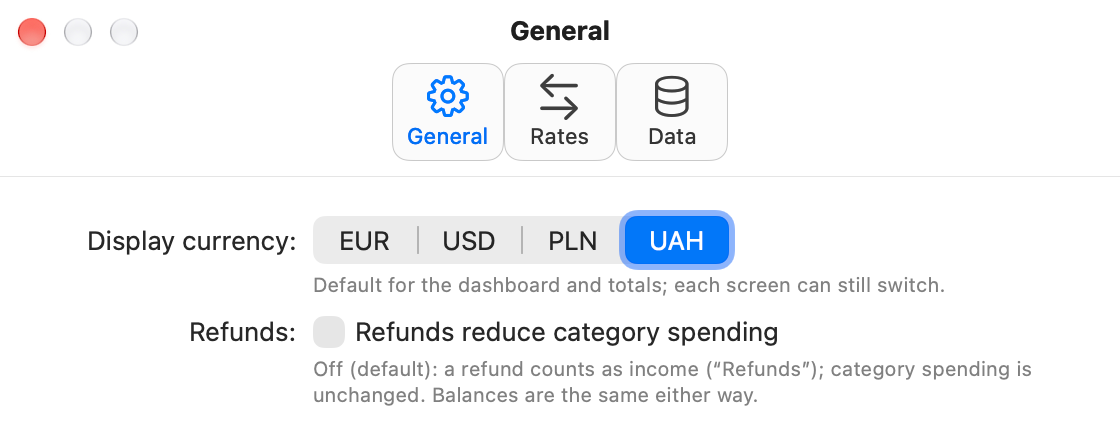
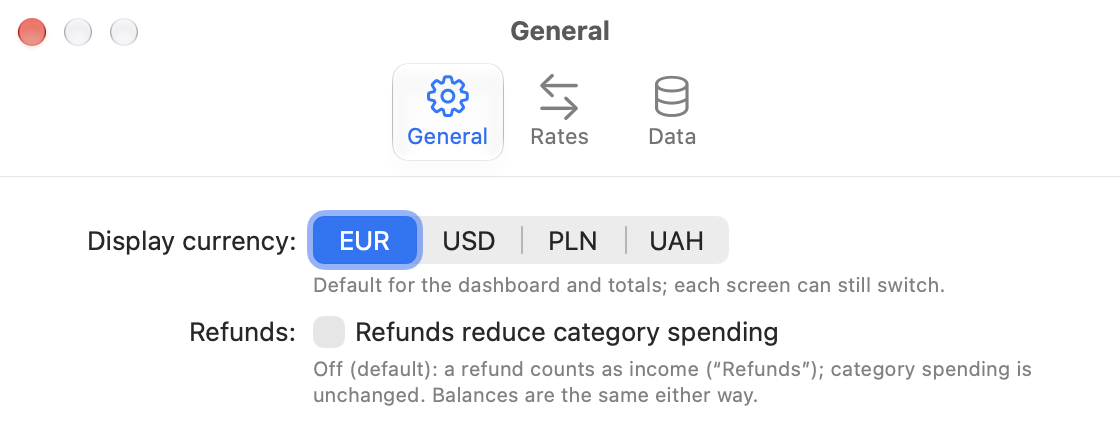
Capture README screenshots with ScreenCaptureKit and retake them
- WindowSnapshot captures the app's own windows via SCShareableContent.currentProcess and
  SCScreenshotManager (no Screen Recording permission needed): real sidebar glass, toolbar
  and traffic lights; the cacheDisplay paint stays as a fallback
- DEBUG -AbacusDisplayCurrency <code> and -AbacusSnapshotFullPage YES (window grows past the
  screen to show the whole page, e.g. all six dashboard widgets)
- Settings window is made key when open, so its chrome looks active
- All README screenshots retaken on sample data with EUR; hero is the full dashboard
- docs/status/R2.md, one line in STATUS "How to check the UI safely"

Verified: swift test (AbacusKit) 695 tests passed; Debug app build succeeded; every PNG checked by eye

diff --git a/App/macOS/Shell/WindowSnapshot.swift b/App/macOS/Shell/WindowSnapshot.swift
@@ -1,21 +1,108 @@
 #if DEBUG
+import AbacusDomain
+import AbacusFeatures
 import AppKit
+import ScreenCaptureKit
 
 /// Debug builds only: writes every visible window of the app to PNG files and quits, for UI
-/// reviews without screen-recording access. Launch with
+/// reviews and README screenshots. Launch with
 /// `-AbacusSnapshotDir <folder> -AbacusSnapshotName <prefix>` (plus `-AbacusDark YES` for dark
-/// mode, `-AbacusSnapshotDelay <seconds>`).
+/// mode, `-AbacusSnapshotDelay <seconds>`, `-AbacusDisplayCurrency EUR` to switch the display
+/// currency first, `-AbacusSnapshotFullPage YES` to grow the main window until its page scroll
+/// view shows its whole document, e.g. every dashboard widget).
+///
+/// Windows are captured with ScreenCaptureKit (`SCShareableContent.currentProcess`: an app's own
+/// windows need no Screen Recording permission), so sidebar glass, toolbar and traffic lights
+/// look exactly as on screen. If that fails, the older `cacheDisplay` paint below is used.
 @MainActor
 enum WindowSnapshot {
-  static func runIfRequested() async {
+  static func runIfRequested(session: AppSession) async {
     let defaults = UserDefaults.standard
     guard let folder = defaults.string(forKey: "AbacusSnapshotDir") else { return }
     let name = defaults.string(forKey: "AbacusSnapshotName") ?? "window"
-    NSApp.activate()
+    if let code = defaults.string(forKey: "AbacusDisplayCurrency"), let currency = Currency(rawValue: code) {
+      // As if the app had launched with this default: the rates page follows it too.
+      await session.app.setDisplayCurrency(currency).value
+      session.app.rates.showIn = currency
+    }
+    NSApp.activate(ignoringOtherApps: true)
+    // Active chrome (coloured traffic lights): the Settings window when it is open, else main.
+    let settings = NSApp.windows.first { $0.isVisible && $0.frame.width > 100 && $0 !== mainWindow }
+    (settings ?? mainWindow)?.makeKeyAndOrderFront(nil)
     let delay = defaults.double(forKey: "AbacusSnapshotDelay")
     try? await Task.sleep(for: .seconds(delay > 0 ? delay : 2))
-    capture(to: URL(filePath: folder, directoryHint: .isDirectory), prefix: name)
+    if defaults.bool(forKey: "AbacusSnapshotFullPage") { await growToFitContent() }
+    await capture(to: URL(filePath: folder, directoryHint: .isDirectory), prefix: name)
     NSApp.terminate(nil)
+  }
+
+  private static var mainWindow: NSWindow? {
+    NSApp.windows.first { $0.identifier?.rawValue.hasPrefix("main") == true }
+  }
+
+  /// Makes the main window tall enough that its biggest vertical scroll view (the page) shows
+  /// its whole document; the window may reach below the screen, which the capture still sees.
+  private static func growToFitContent() async {
+    guard let window = mainWindow, let root = window.contentView else { return }
+    allowFramesBeyondScreen(window)
+    for _ in 0..<4 {
+      let scrolls = descendants(of: root).compactMap { $0 as? NSScrollView }
+      guard
+        let page = scrolls.max(by: { $0.frame.width * $0.frame.height < $1.frame.width * $1.frame.height }),
+        let document = page.documentView
+      else { return }
+      // The clip view runs under the toolbar; its insets are not part of the visible page.
+      let insets = page.contentView.contentInsets
+      let visible = page.contentView.bounds.height - insets.top - insets.bottom
+      let extra = (document.frame.height - visible).rounded(.up)
+      guard extra > 1 else { return }
+      var frame = window.frame
+      frame.size.height += extra
+      frame.origin.y -= extra
+      window.setFrame(frame, display: true)
+      try? await Task.sleep(for: .seconds(1))
+      print("WindowSnapshot: page \(document.frame.height) pt, window \(window.frame.height) pt")
+    }
+  }
+
+  /// AppKit keeps a window inside the screen (`constrainFrameRect(_:to:)`); for a full-page
+  /// capture the main window is moved to a runtime subclass that returns the frame unchanged.
+  private static func allowFramesBeyondScreen(_ window: NSWindow) {
+    let base: AnyClass = type(of: window)
+    let name = "AbacusSnapshotUnconstrained_\(NSStringFromClass(base))"
+    var subclass: AnyClass? = NSClassFromString(name)
+    if subclass == nil, let created = objc_allocateClassPair(base, name, 0),
+      let method = class_getInstanceMethod(base, #selector(NSWindow.constrainFrameRect(_:to:)))
+    {
+      let unconstrained: @convention(block) (NSWindow, NSRect, NSScreen?) -> NSRect = { _, rect, _ in rect }
+      class_addMethod(
+        created, #selector(NSWindow.constrainFrameRect(_:to:)), imp_implementationWithBlock(unconstrained),
+        method_getTypeEncoding(method))
+      objc_registerClassPair(created)
+      subclass = created
+    }
+    if let subclass { object_setClass(window, subclass) }
+  }
+
+  /// The window as the window server composites it (glass, chrome; no shadow, transparent
+  /// rounded corners), at the backing scale. Nil when ScreenCaptureKit is unavailable.
+  private static func screenCapture(_ window: NSWindow, in shareable: SCShareableContent?) async -> CGImage? {
+    guard let target = shareable?.windows.first(where: { $0.windowID == CGWindowID(window.windowNumber) })
+    else { return nil }
+    let filter = SCContentFilter(desktopIndependentWindow: target)
+    let configuration = SCStreamConfiguration()
+    let scale = CGFloat(filter.pointPixelScale)
+    configuration.width = Int((filter.contentRect.width * scale).rounded())
+    configuration.height = Int((filter.contentRect.height * scale).rounded())
+    configuration.showsCursor = false
+    configuration.ignoreShadowsSingleWindow = true
+    configuration.captureResolution = .best
+    do {
+      return try await SCScreenshotManager.captureImage(contentFilter: filter, configuration: configuration)
+    } catch {
+      print("WindowSnapshot: ScreenCaptureKit failed: \(error.localizedDescription)")
+      return nil
+    }
   }
 
   static func applyAppearance() {
@@ -26,20 +113,32 @@ enum WindowSnapshot {
     }
   }
 
-  static func capture(to folder: URL, prefix: String) {
+  static func capture(to folder: URL, prefix: String) async {
     try? FileManager.default.createDirectory(at: folder, withIntermediateDirectories: true)
+    let shareable: SCShareableContent?
+    do {
+      shareable = try await SCShareableContent.currentProcess
+    } catch {
+      print("WindowSnapshot: no shareable content: \(error.localizedDescription)")
+      shareable = nil
+    }
     for window in NSApp.windows where window.isVisible && window.frame.width > 100 {
       guard let root = window.contentView?.superview ?? window.contentView else { continue }
       window.displayIfNeeded()
       let isMain = window.identifier?.rawValue.hasPrefix("main") == true
       let file = folder.appending(path: "\(prefix)\(isMain ? "" : "-settings").png")
-      if let data = image(of: root)?.representation(using: .png, properties: [:]) {
-        try? data.write(to: file)
+      let data: Data?
+      if let shot = await screenCapture(window, in: shareable) {
+        data = NSBitmapImageRep(cgImage: shot).representation(using: .png, properties: [:])
+      } else {
+        print("WindowSnapshot: painting \(file.lastPathComponent) with cacheDisplay")
+        data = image(of: root)?.representation(using: .png, properties: [:])
       }
+      try? data?.write(to: file)
     }
   }
 
-  /// The view drawn with `cacheDisplay`; glass panes (the sidebar) do not draw that way, so
+  /// Fallback: the view drawn with `cacheDisplay`; glass panes (the sidebar) do not draw that way, so
   /// they are painted over with a plain sidebar colour and their content.
   private static func image(of root: NSView) -> NSBitmapImageRep? {
     guard let rep = root.bitmapImageRepForCachingDisplay(in: root.bounds) else { return nil }

diff --git a/App/macOS/Shell/RootView.swift b/App/macOS/Shell/RootView.swift
@@ -66,7 +66,7 @@ struct RootView: View {
         await StabilityProbe.runIfRequested(session: session)
       #endif
       #if DEBUG
-        await WindowSnapshot.runIfRequested()
+        await WindowSnapshot.runIfRequested(session: session)
       #endif
     }
   }

diff --git a/docs/status/R2.md b/docs/status/R2.md
@@ -1,0 +1,56 @@
+# R2 — Faithful README screenshots
+State: done   ·   Branch: wp/R2-screenshots   ·   Updated: 2026-10-28
+
+The R1 screenshots were painted with `cacheDisplay`, which does not draw `NSGlassEffectView`
+(sidebar, toolbar glass, segmented thumbs) or the window's title-bar buttons, so the sidebar was
+an approximated grey box and the traffic lights were missing. The dashboard showed only the top.
+
+## Capture approach
+- `App/macOS/Shell/WindowSnapshot.swift` (DEBUG) now captures each visible app window with
+  **ScreenCaptureKit**: `SCShareableContent.currentProcess` (only this process's windows) →
+  the `SCWindow` whose `windowID` is the `NSWindow.windowNumber` →
+  `SCContentFilter(desktopIndependentWindow:)` → `SCScreenshotManager.captureImage` at the
+  filter's `pointPixelScale`, no cursor, no shadow (`ignoreShadowsSingleWindow`); the window's
+  rounded corners stay transparent. This is the window server's own composite: real sidebar
+  material, toolbar glass, selected segments and coloured traffic lights.
+- **It worked without Screen Recording permission**: no prompt, no denial, on this Mac
+  (launched from the terminal). The old `cacheDisplay` paint is kept as a
+  fallback and logs `painting … with cacheDisplay` if ScreenCaptureKit ever fails.
+- Before capturing, the snapshot activates the app and makes the Settings window key when it is
+  open (else the main window), so the chrome looks active.
+- New DEBUG launch options:
+  - `-AbacusDisplayCurrency EUR` — sets the display currency (persisted in the scratch database,
+    and the rates page's "Show in" follows it as it would on a launch with that default).
+  - `-AbacusSnapshotFullPage YES` — grows the main window until its page scroll view shows its
+    whole document (the clip view's toolbar inset is subtracted), then captures it. AppKit keeps
+    windows inside the screen (`constrainFrameRect(_:to:)`), so for this run only the main window
+    is moved to a runtime subclass that returns the frame unchanged; the window reaches below the
+    screen and ScreenCaptureKit still captures all of it.
+- `RootView` passes the session to `WindowSnapshot.runIfRequested(session:)` (one-line change).
+
+## Screenshots (`docs/screenshots/`)
+All taken from the Debug build, each launch with a fresh `CFFIXED_USER_HOME=<scratch>/home.XXXX`,
+`-AbacusDatabasePath <that home>/demo.sqlite -AbacusLoadSampleData YES -AbacusDisplayCurrency EUR
+-AbacusWindowWidth 1280 -AbacusWindowHeight 860 -AbacusSnapshotDelay 3` plus `-AbacusSection …`.
+Captured at 2x (2560 px), scaled to 1600 px wide with `sips --resampleWidth 1600`
+(`settings-general.png` stays at its native 1120 px). `pngquant` is not installed; the largest
+file is the full dashboard at about 470 KB.
+- `dashboard.png` — full page, 1600 × 1979: all six widgets in the default order (Net worth;
+  Monthly budget + Monthly expenses; Income vs expenses; Monthly income + Debts) and the rates
+  footnote. `-AbacusSnapshotFullPage YES`.
+- `dashboard-dark.png` — top part, `-AbacusDark YES`.
+- `transactions`, `accounts`, `categories`, `budget`, `debts`, `rules`, `import` (step 1,
+  section `importFiles`), `rates` — 1600 × 1075.
+- `settings-general.png` — the Settings window (`-AbacusOpenSettings general`), key window.
+
+Each PNG was opened and checked by eye: sidebar flush with the window edges and with its real
+material, traffic lights coloured, toolbar and the EUR segment selected (Settings › General shows
+EUR), only sample names (Alex Example, Sam Placeholder, …), nothing clipped (the full dashboard
+ends below the Debts card with its footnote). Rate dates in the toolbar vary between pages
+(sample rates vs a live fetch finishing during the run); that is the app's real behaviour.
+
+README: the hero image is the full dashboard (alt text lists the six widgets); the screenshot note
+says EUR and made-up sample data. STATUS "How to check the UI safely" has one line on the method.
+
+## Verification
+See the commit's `Verified:` line (swift test in AbacusKit + Debug app build).

diff --git a/README.md b/README.md
@@ -8,7 +8,7 @@ statements.
 Everything is stored on your Mac. There are no bank connections, no accounts to sign up for and
 no telemetry; the only network traffic is fetching exchange rates.
 
-![Dashboard](docs/screenshots/dashboard.png)
+![Dashboard with all six widgets: net worth, monthly budget, monthly expenses, income vs expenses, monthly income and debts](docs/screenshots/dashboard.png)
 
 ## Features
 
@@ -52,7 +52,8 @@ The full functional description is in the [tech assignment](docs/REQUIREMENTS.md
 
 ## Screenshots
 
-All screenshots show the built-in sample data: made-up accounts, people and amounts.
+All screenshots show the built-in sample data (made-up accounts, people and amounts) with EUR
+as the display currency.
 
 <table>
   <tr>

diff --git a/docs/STATUS.md b/docs/STATUS.md
@@ -183,3 +183,4 @@ opens Import's review step on that file), snapshot `-AbacusSnapshotDir <dir>
 Also set `CFFIXED_USER_HOME=<scratch dir>` so saved window sizes and preferences don't touch the
 owner's. The terminal has no Screen Recording permission; use the in-app snapshot. Never take
 screenshots of the real database.
+The snapshot captures the app's own windows with ScreenCaptureKit (no permission needed; real glass and chrome), `-AbacusDisplayCurrency EUR` switches currency, `-AbacusSnapshotFullPage YES` grows the window to the whole page (R2).
